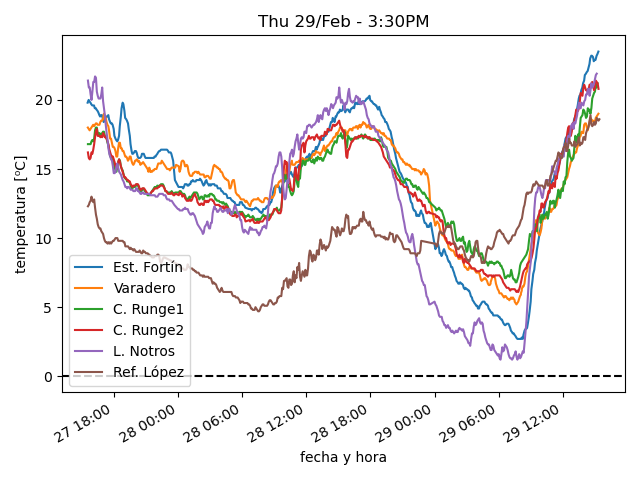
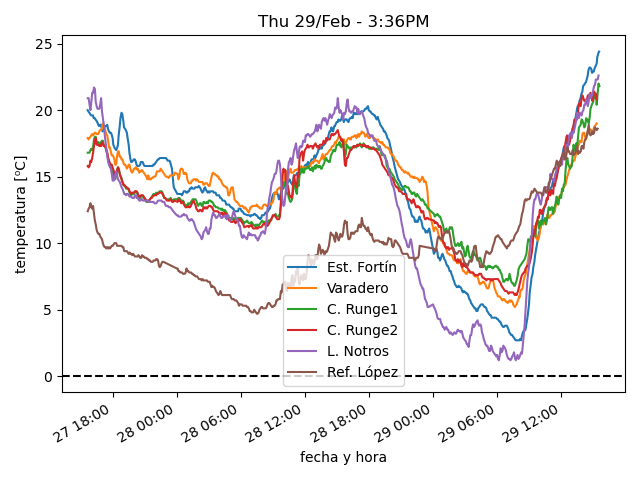
actualiza datos

diff --git a/estaciones/estacion1.html b/estaciones/estacion1.html
@@ -18,32 +18,32 @@
     </tr>
     <tr>
      <td class="stats_data">
-      3:19PM
+      3:33PM
      </td>
     </tr>
     <tr>
      <td class="stats_data">
-      23.5
+      24.4
      </td>
     </tr>
     <tr>
      <td class="stats_data">
-      7.2
+      6.9
      </td>
     </tr>
     <tr>
      <td class="stats_data">
-      35.0
+      32.5
      </td>
     </tr>
     <tr>
      <td class="stats_data">
-      1015.24
+      1014.9
      </td>
     </tr>
     <tr>
      <td class="stats_data">
-      3.6/6.4 S
+      7.2/8.0 S
      </td>
     </tr>
     <tr>
@@ -53,12 +53,12 @@
     </tr>
     <tr>
      <td class="stats_data">
-      5.3
+      5.8
      </td>
     </tr>
     <tr>
      <td class="stats_data">
-      608.0
+      775.0
      </td>
     </tr>
    </tbody>

diff --git a/estaciones/estacion3.html b/estaciones/estacion3.html
@@ -18,32 +18,32 @@
     </tr>
     <tr>
      <td class="stats_data">
-      3:14PM
+      3:34PM
      </td>
     </tr>
     <tr>
      <td class="stats_data">
-      21.2
+      21.8
      </td>
     </tr>
     <tr>
      <td class="stats_data">
-      6.0
+      4.5
      </td>
     </tr>
     <tr>
      <td class="stats_data">
-      37.3
+      32.2
      </td>
     </tr>
     <tr>
      <td class="stats_data">
-      1008.33
+      1007.92
      </td>
     </tr>
     <tr>
      <td class="stats_data">
-      7.7/10.1 WNW
+      5.2/6.3 NW
      </td>
     </tr>
     <tr>
@@ -58,7 +58,7 @@
     </tr>
     <tr>
      <td class="stats_data">
-      650.7
+      661.5
      </td>
     </tr>
    </tbody>

diff --git a/estaciones/estacion5.html b/estaciones/estacion5.html
@@ -18,27 +18,27 @@
     </tr>
     <tr>
      <td class="stats_data">
-      3:10PM
+      3:30PM
      </td>
     </tr>
     <tr>
      <td class="stats_data">
-      21.9
+      22.6
      </td>
     </tr>
     <tr>
      <td class="stats_data">
-      8.3
+      8.7
      </td>
     </tr>
     <tr>
      <td class="stats_data">
-      42.0
+      41.0
      </td>
     </tr>
     <tr>
      <td class="stats_data">
-      1014.33
+      1013.92
      </td>
     </tr>
     <tr>
